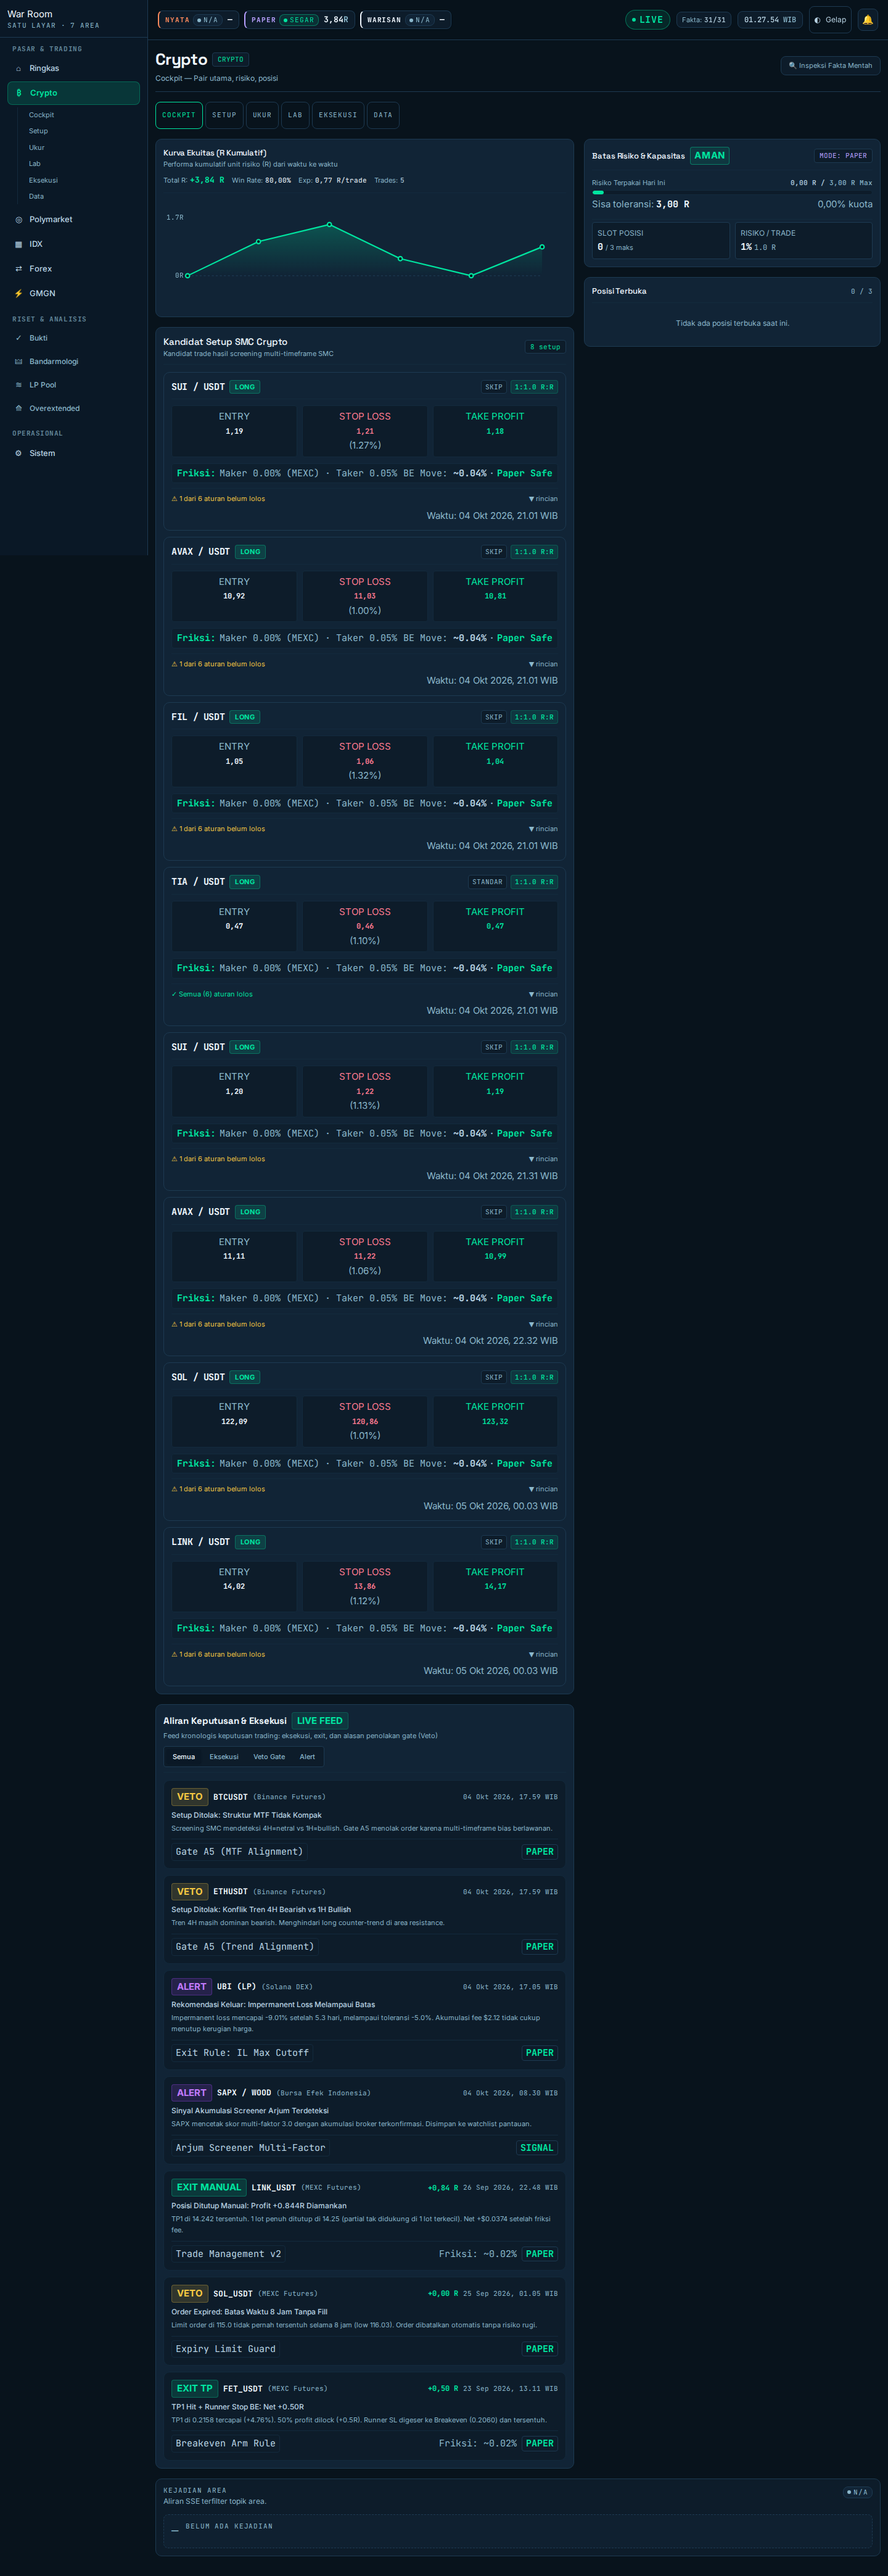
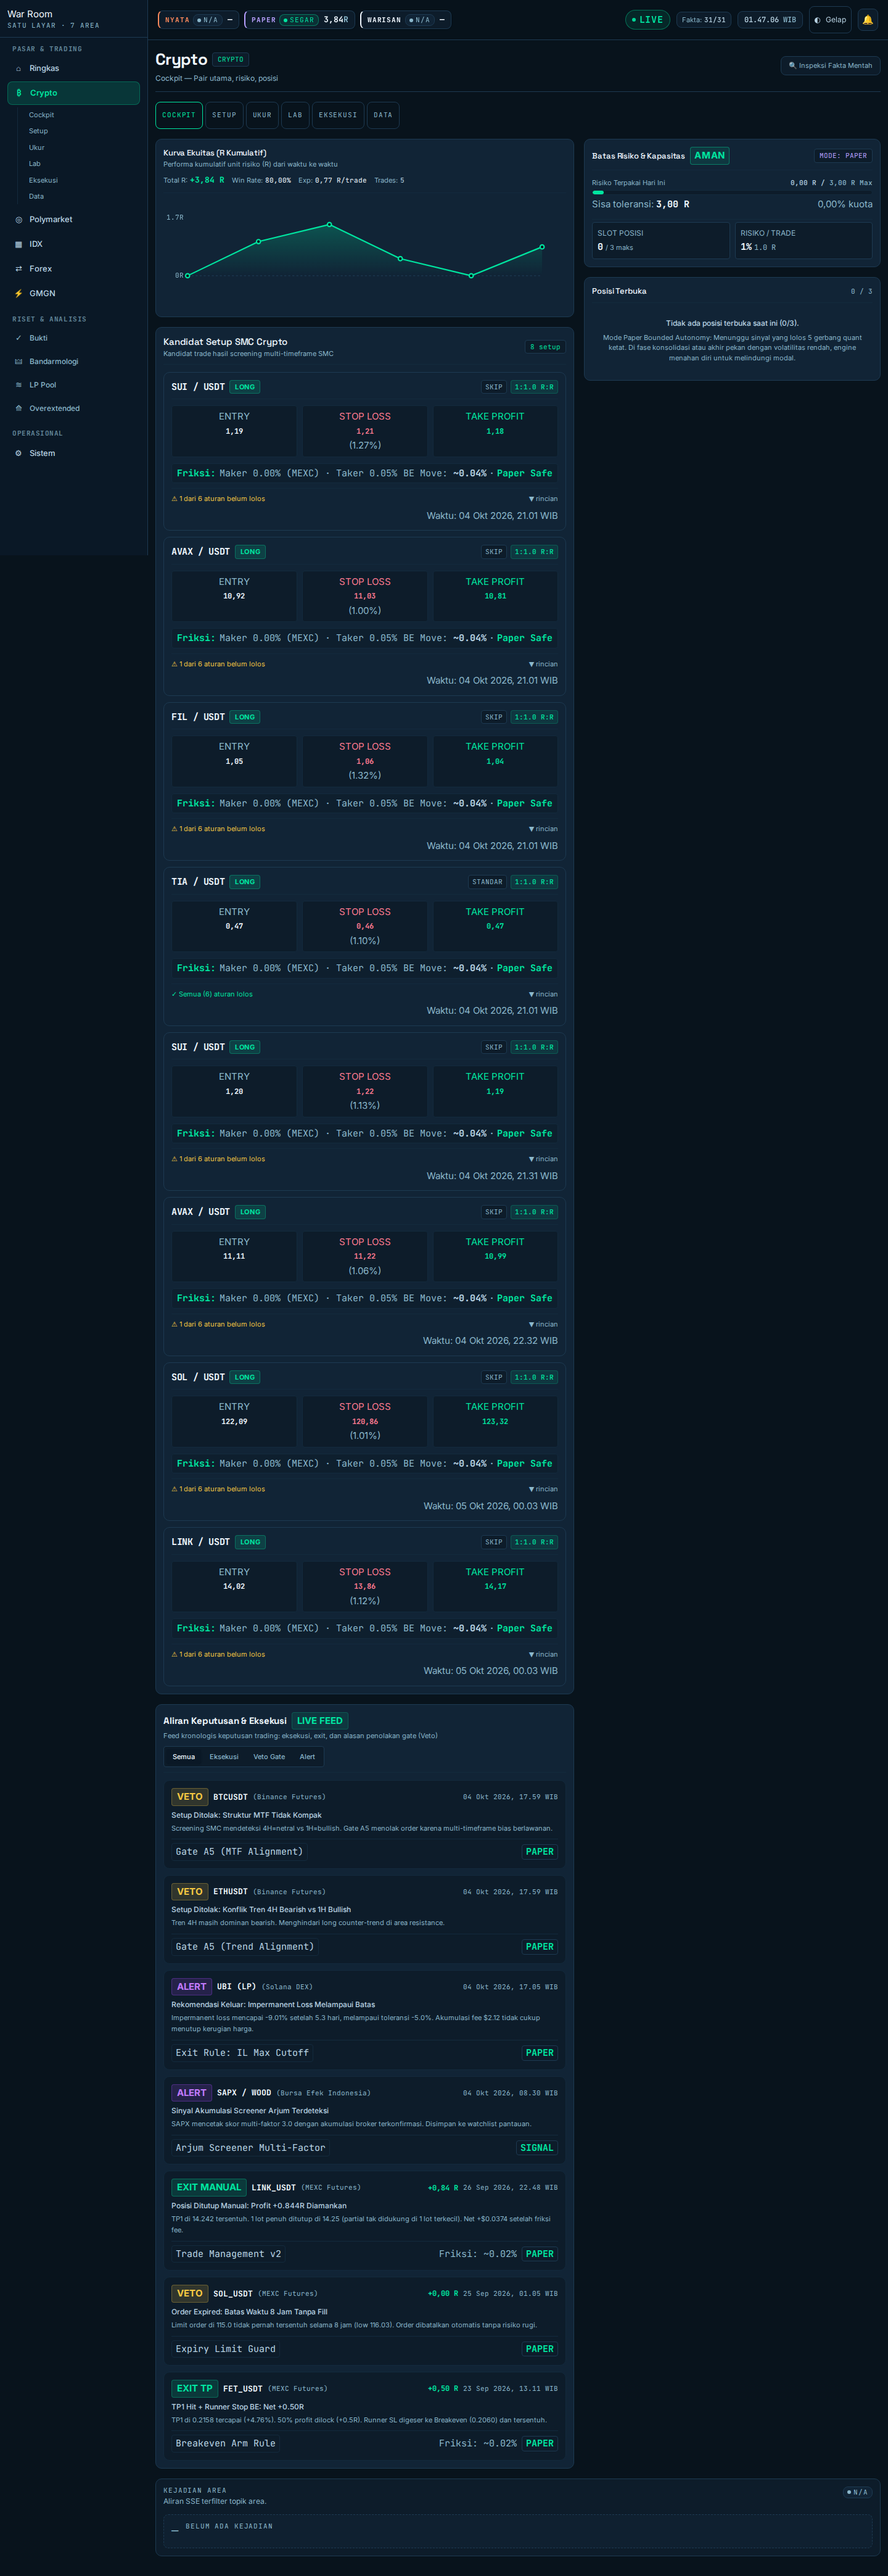
fix(freshness-empty-states): perbaiki konversi zona waktu WIB ke UTC dan tambahkan konteks pasar tutup/posisi kosong

Changed region(s): [[0.6562, 0.1246, 1.0, 0.1557]]

diff --git a/apps/web/src/lib/components/AreaView.svelte b/apps/web/src/lib/components/AreaView.svelte
@@ -58,9 +58,13 @@
 	const jt = (n?: number | null) =>
 		n == null ? '—' : `${n > 0 ? '+' : ''}${n.toLocaleString('id-ID', { maximumFractionDigits: 1 })} Jt`;
 
-	function getWIBHour(): number {
+	function getWIBDate(): Date {
 		const now = new Date();
-		return (now.getUTCHours() + 7) % 24;
+		return new Date(now.getTime() + 7 * 3600 * 1000);
+	}
+
+	function getWIBHour(): number {
+		return getWIBDate().getUTCHours();
 	}
 
 	function statusSesi(jamMulai: number, jamSelesai: number, sekarangJam: number): boolean {
@@ -71,6 +75,10 @@
 	}
 
 	const wibHour = $derived(getWIBHour());
+	const isWeekendWIB = $derived.by(() => {
+		const day = getWIBDate().getUTCDay();
+		return day === 0 || day === 6;
+	});
 </script>
 
 <div class="space-y-4">
@@ -166,8 +174,9 @@
 								</div>
 
 								{#if kandidatArray.length === 0}
-									<div class="p-6 text-center text-text-3">
-										<p class="text-12">Tidak ada kandidat setup crypto yang aktif saat ini.</p>
+									<div class="p-6 text-center text-text-3 space-y-1">
+										<p class="text-12 font-medium text-text-2">Tidak ada kandidat setup crypto aktif saat ini.</p>
+										<p class="text-11 text-text-3">Screening SMC 24/7 sedang berjalan. Setup baru akan muncul saat terbentuk struktur POI valid dengan ATR1H ≥ 1.0%.</p>
 									</div>
 								{:else}
 									<div class="space-y-2.5">
@@ -195,8 +204,11 @@
 									</span>
 								</div>
 								{#if Number(risikoObj?.posisi_terbuka ?? 0) === 0}
-									<div class="py-4 text-center text-text-3 text-12">
-										Tidak ada posisi terbuka saat ini.
+									<div class="py-4 px-2 text-center space-y-1.5">
+										<div class="text-12 font-medium text-text-2">Tidak ada posisi terbuka saat ini (0/3).</div>
+										<p class="text-11 text-text-3">
+											Mode Paper Bounded Autonomy: Menunggu sinyal yang lolos 5 gerbang quant ketat. Di fase konsolidasi atau akhir pekan dengan volatilitas rendah, engine menahan diri untuk melindungi modal.
+										</p>
 									</div>
 								{/if}
 							</div>
@@ -468,9 +480,19 @@
 			{/if}
 
 			<!-- ========================================== -->
-			<!-- VIEW KHUSUS: IDX (Pasar Saham Indonesia) -->
-			<!-- ========================================== -->
 			{#if kunci === 'idx'}
+				{#if isWeekendWIB}
+					<div class="rounded-card border border-amber-500/30 bg-amber-500/10 p-3 text-12 text-amber-200/90 flex items-start gap-2.5">
+						<span class="text-16 leading-none">ℹ</span>
+						<div>
+							<div class="font-bold text-amber-300">Bursa Efek Indonesia (IDX) Tutup — Akhir Pekan</div>
+							<p class="text-11 text-text-2 mt-0.5">
+								Pasar saham domestik beroperasi Senin – Jumat (09:00 – 15:55 WIB). Data Arjum, TradingView Screener, dan Bandarmologi di bawah mencerminkan penutupan sesi reguler terakhir.
+							</p>
+						</div>
+					</div>
+				{/if}
+
 				{#if sub === 'screener' || !sub}
 					<div class="space-y-4">
 						<!-- Arjum Screener -->
@@ -779,6 +801,18 @@
 			<!-- VIEW KHUSUS: FOREX & KOMODITAS             -->
 			<!-- ========================================== -->
 			{#if kunci === 'forex'}
+				{#if isWeekendWIB}
+					<div class="rounded-card border border-amber-500/30 bg-amber-500/10 p-3 text-12 text-amber-200/90 flex items-start gap-2.5">
+						<span class="text-16 leading-none">ℹ</span>
+						<div>
+							<div class="font-bold text-amber-300">Pasar Forex & Spot Komoditas (XAU/USD) Tutup — Akhir Pekan</div>
+							<p class="text-11 text-text-2 mt-0.5">
+								Perdagangan valuta dan spot emas global beristirahat setiap akhir pekan. Sesi Sydney & Tokyo akan membuka likuiditas baru mulai Senin pagi (~04:00 WIB).
+							</p>
+						</div>
+					</div>
+				{/if}
+
 				{#if sub === 'struktur' || !sub}
 					<div class="grid grid-cols-1 gap-4 lg:grid-cols-12">
 						<!-- Cockpit Emas (7 cols) -->

diff --git a/apps/web/e2e/screenshot.spec.ts b/apps/web/e2e/screenshot.spec.ts
@@ -1,10 +1,20 @@
 import { test } from '@playwright/test';
+import fs from 'node:fs';
+import path from 'node:path';
 import { KREDENSIAL, PESAN_SKIP, RUTE, loginLewat } from './util';
 
 /**
  * Screenshot bukti (W8): 7 rute + /masuk, desktop 1440 dan mobile 390, full-page.
  * Disimpan ke `docs/bukti-p2/` supaya bisa ditinjau tanpa menjalankan app.
  */
+const BUKTI_DIR = process.cwd().endsWith('apps/web')
+	? path.resolve(process.cwd(), '../../docs/bukti-p2')
+	: path.resolve(process.cwd(), 'docs/bukti-p2');
+
+if (!fs.existsSync(BUKTI_DIR)) {
+	fs.mkdirSync(BUKTI_DIR, { recursive: true });
+}
+
 const NAMA: Record<string, string> = {
 	'/': 'ringkas',
 	'/crypto': 'crypto',
@@ -28,11 +38,11 @@ test.describe('screenshot bukti', () => {
 			await page.setViewportSize({ width: 1440, height: 900 });
 			await page.goto(rute);
 			await page.waitForTimeout(1500); // biar fakta & SSE tampil
-			await page.screenshot({ path: `../../docs/bukti-p2/desktop-${nama}.png`, fullPage: true });
+			await page.screenshot({ path: `${BUKTI_DIR}/desktop-${nama}.png`, fullPage: true });
 
 			await page.setViewportSize({ width: 390, height: 844 });
 			await page.waitForTimeout(500);
-			await page.screenshot({ path: `../../docs/bukti-p2/mobile-${nama}.png`, fullPage: true });
+			await page.screenshot({ path: `${BUKTI_DIR}/mobile-${nama}.png`, fullPage: true });
 		});
 	}
 
@@ -47,11 +57,11 @@ test.describe('screenshot bukti', () => {
 			await page.goto(s.rute);
 			await page.getByRole('button', { name: s.tombol, exact: true }).click();
 			await page.waitForTimeout(1200);
-			await page.screenshot({ path: `../../docs/bukti-p2/desktop-${s.nama}.png`, fullPage: true });
+			await page.screenshot({ path: `${BUKTI_DIR}/desktop-${s.nama}.png`, fullPage: true });
 
 			await page.setViewportSize({ width: 390, height: 844 });
 			await page.waitForTimeout(500);
-			await page.screenshot({ path: `../../docs/bukti-p2/mobile-${s.nama}.png`, fullPage: true });
+			await page.screenshot({ path: `${BUKTI_DIR}/mobile-${s.nama}.png`, fullPage: true });
 		});
 	}
 });
@@ -60,7 +70,7 @@ test('screenshot /masuk', async ({ page }) => {
 	await page.setViewportSize({ width: 1440, height: 900 });
 	await page.goto('/masuk');
 	await page.waitForTimeout(500);
-	await page.screenshot({ path: '../../docs/bukti-p2/desktop-masuk.png', fullPage: true });
+	await page.screenshot({ path: `${BUKTI_DIR}/desktop-masuk.png`, fullPage: true });
 	await page.setViewportSize({ width: 390, height: 844 });
-	await page.screenshot({ path: '../../docs/bukti-p2/mobile-masuk.png', fullPage: true });
+	await page.screenshot({ path: `${BUKTI_DIR}/mobile-masuk.png`, fullPage: true });
 });

diff --git a/apps/web/src/routes/overextended/+page.svelte b/apps/web/src/routes/overextended/+page.svelte
@@ -79,7 +79,7 @@
 			if (f.key !== 'bagian' && f.key !== 'overextended') continue;
 			const v = nilaiObj(f.value);
 			const b = (v?.['overextended'] ?? (v?.['bagian'] as Record<string, unknown> | undefined)?.['overextended'] ?? v) as Record<string, unknown> | undefined;
-			if (b && typeof b === 'object' && ('simbol' in b || 'jumlah' in b)) return { data: b as Bagian, fakta: f };
+			if (b && typeof b === 'object' && ('simbol' in b || 'jumlah' in b)) return { data: b as unknown as Bagian, fakta: f };
 		}
 		return null;
 	});

diff --git a/services/worker/src/warroom_worker/facts_publish.py b/services/worker/src/warroom_worker/facts_publish.py
@@ -19,7 +19,7 @@ import hashlib
 import json
 import re
 from dataclasses import dataclass, field
-from datetime import UTC, datetime
+from datetime import UTC, datetime, timedelta, timezone
 from pathlib import Path
 from typing import Any
 
@@ -45,17 +45,16 @@ def canonical_hash(value: Any) -> str:
 def _observed_at(payload: dict[str, Any], path: Path) -> datetime:
     """Waktu observasi sebenarnya.
 
-    Perangkap yang sudah diperbaiki di sini: `dibuat` dari domain berformat
-    `"2026-10-04 18:43:19 WIB"` — **waktu lokal (UTC+7), tanpa penanda zona**. Kalau diumpankan
-    apa adanya ke `fromisoformat`, jamnya dianggap UTC sehingga fakta **selalu terlihat 7 jam
-    lebih tua** daripada kenyataan. Itu membuat kesegaran salah dan `on_conflict_do_nothing`
-    pada (kind, key, observed_at) terus menabrak baris lama → fakta baru tak pernah masuk.
+    Field `dibuat` dari domain berformat `"2026-10-05 01:15:52 WIB"` (UTC+7).
+    Bila ada penanda 'WIB', waktu harus ditandai timezone(timedelta(hours=7))
+    agar konversi ke UTC tepat dan tidak melompat 7 jam ke masa depan.
 
-    Urutan kepercayaan: stempel waktu berzona (ISO, mis. `...+07:00`/`Z`) → `dibuat` lokal
-    apa adanya (ditandai UTC supaya perilaku lama tetap terjaga) → mtime berkas.
+    Urutan kepercayaan: stempel waktu berzona (ISO, mis. `...+07:00`/`Z`) →
+    `dibuat` berformat WIB (UTC+7) → `dibuat` lokal/UTC → mtime berkas.
     """
     raw = payload.get("dibuat")
     if isinstance(raw, str) and raw:
+        is_wib = "WIB" in raw
         teks = raw.strip().replace(" WIB", "").replace("WIB", "").strip()
         # ISO dengan penanda zona eksplisit (Z atau ±HH:MM) = paling tepercaya.
         if re.search(r"(Z|[+-]\d{2}:?\d{2})$", teks):
@@ -63,18 +62,24 @@ def _observed_at(payload: dict[str, Any], path: Path) -> datetime:
                 return datetime.fromisoformat(teks.replace("Z", "+00:00"))
             except ValueError:
                 pass
-        # `dibuat` lokal tanpa penanda zona: perlakukan seperti dulu (UTC-asli) — dicek
-        # dengan mtime supaya tidak pernah lebih akurat daripada kenyataan.
+        wib_tz = timezone(timedelta(hours=7))
         for fmt in ("%Y-%m-%d %H:%M:%S", "%Y-%m-%dT%H:%M:%S"):
             try:
-                dt_lokal = datetime.strptime(teks, fmt).replace(tzinfo=UTC)
+                if is_wib:
+                    dt = datetime.strptime(teks, fmt).replace(tzinfo=wib_tz)
+                else:
+                    dt = datetime.strptime(teks, fmt).replace(tzinfo=UTC)
             except ValueError:
                 continue
-            try:
-                mtime = datetime.fromtimestamp(path.stat().st_mtime, tz=UTC)
-            except OSError:
-                return dt_lokal
-            return max(dt_lokal, mtime)
+            # Penjaga masa depan: bila jam lokal keliru diset melompat ke depan
+            now_utc = datetime.now(tz=UTC)
+            if dt > now_utc + timedelta(minutes=5):
+                try:
+                    mtime = datetime.fromtimestamp(path.stat().st_mtime, tz=UTC)
+                    return min(mtime, now_utc)
+                except OSError:
+                    return now_utc
+            return dt
     try:
         return datetime.fromtimestamp(path.stat().st_mtime, tz=UTC)
     except OSError:

diff --git a/services/worker/tests/test_facts_publish.py b/services/worker/tests/test_facts_publish.py
@@ -161,17 +161,18 @@ def test_fakta_basi_terdeteksi_lewat_ttl(db, snapshot_uji: Path) -> None:
 # (kind, key, observed_at) terus menabrak baris lama, jadi fakta baru TIDAK PERNAH masuk.
 
 def test_dibuat_wib_tidak_mundur_tujuh_jam(tmp_path):
-    """`dibuat` berformat "<tgl> <jam> WIB" tidak boleh menghasilkan observed_at 7 jam ke belakang."""
+    """`dibuat` berformat "<tgl> <jam> WIB" (UTC+7) dikonversi ke UTC dan sesuai mtime."""
     import datetime as dt
 
     from warroom_worker.facts_publish import _observed_at
 
     berkas = tmp_path / "snapshot.json"
     berkas.write_text("{}", encoding="utf-8")
-    hasil = _observed_at({"dibuat": "2026-10-04 18:43:19 WIB"}, berkas)
     mtime = dt.datetime.fromtimestamp(berkas.stat().st_mtime, tz=dt.UTC)
-    # Tidak boleh lebih tua daripada mtime berkas (dulu selisih ~7 jam).
-    assert hasil >= mtime - dt.timedelta(seconds=5)
+    wib_str = (mtime + dt.timedelta(hours=7)).strftime("%Y-%m-%d %H:%M:%S WIB")
+    hasil = _observed_at({"dibuat": wib_str}, berkas)
+    # Harus sesuai mtime (selisih <= 2 detik), bukan melompat 7 jam ke depan atau ke belakang.
+    assert abs((hasil.astimezone(dt.UTC) - mtime).total_seconds()) <= 2
 
 
 def test_dibuat_iso_berzona_dipakai_apa_adanya(tmp_path):
